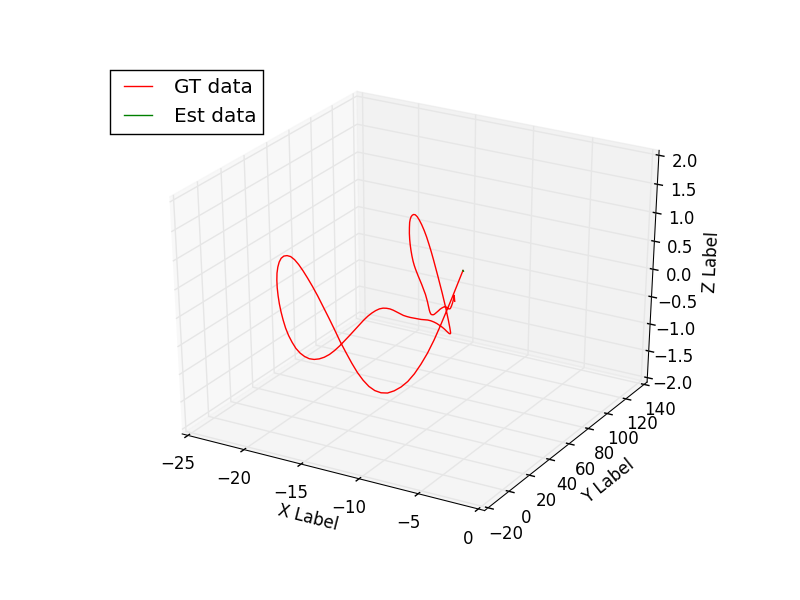
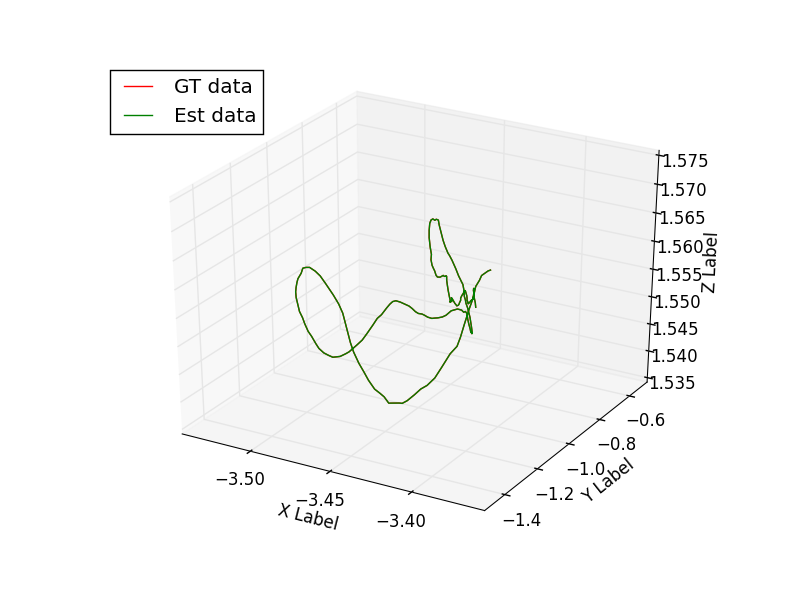
Parametric conf

diff --git a/test4.py b/test4.py
@@ -39,59 +39,49 @@ fig_name3d= prediction_name + "_" + str(step) + "3d.png"
 fig_namexyz= prediction_name + "_" + str(step) + "xyz.png"
 
 
+#orijinal locations of camera
+partitions=dataset_loader.load_splits(params)
+(X_test_gt, y_test_gt)=partitions[2]
+(data_x, data_y)=partitions[3]
+
+#location differences with orijinal, step_size=1 setted this means only looking consequtive locations
+X_test,y_delta_test,overlaps_test=dataset_loader.prepare_data(1,X_test_gt,y_test_gt)
+
+
 #location differences data augmented with stplits
-datasets_aug= dataset_loader.load_tum_dataV2(params)
-(X_train_aug, y_train_aug,overlaps_train_aug)=datasets_aug[0]
-(X_val_aug, y_val_aug,overlaps_val_aug)=datasets_aug[1]
-(X_test_aug, y_test_aug,overlaps_test_aug)=datasets_aug[2]
+X_test_aug, y_delta_test_aug, overlaps_test_aug=dataset_loader.prepare_data(step,X_test_gt,y_test_gt)
 
 #location prediction over augmented data
-y_pred=predict_location.predict(X_test_aug,params)
+y_delta_pred=predict_location.predict(X_test_aug, params)
 n_test_batches = len(X_test_aug)
 n_test_batches /= params['batch_size']
 
 
 
-#Pring and plot error with different axes
-pred_y_test_aug=y_test_aug[0:n_test_batches*params['batch_size']]
-err=y_pred - pred_y_test_aug
+#Print and plot error with different axes
+pred_y_delta_test_aug= y_delta_test_aug[0:n_test_batches * params['batch_size']]
+err= y_delta_pred - pred_y_delta_test_aug
 plot_data.plot_err(err,fig_namexyz)
 mean_error=numpy.mean(numpy.abs(err))
 print "Mean Error:"+str(mean_error)
-print "Mean of gt values:"+str(numpy.mean(pred_y_test_aug))
-print "Mean of pred values:"+str(numpy.mean(y_pred))
-
-
-#location differences with orijinal, step_size=1 setted this means only looking consequtive locations
-datasets= dataset_loader.load_tum_dataV2(params)
-(X_train, y_train,overlaps_train)=datasets[0]
-(X_val, y_val,overlaps_val)=datasets[1]
-(X_test, y_test,overlaps_test)=datasets[2]
-
-
-#orijinal locations of camera
-partitions=dataset_loader.load_splits(params)
-(X_train_gt, y_train_gt)=partitions[0]
-(X_val_gt, y_val_gt)=partitions[1]
-(X_test_gt, y_test_gt)=partitions[2]
-(data_x, data_y)=partitions[3]
-
+print "Mean of gt values:"+str(numpy.mean(pred_y_delta_test_aug))
+print "Mean of pred values:"+str(numpy.mean(y_delta_pred))
 
 #camera location restored from augmented data
-yy_test_aug=utils.up_sample(overlaps_test_aug,y_test_aug,step)
+yy_test_aug=utils.up_sample(overlaps_test_aug, y_delta_test_aug, step)
 yy_test_aug=numpy.vstack([y_test_gt[0,:],yy_test_aug])
 yy_test_aug=numpy.cumsum(yy_test_aug,axis=0)
 
 
 #camera location restored from predicted data
 pred_overlaps_test_aug=overlaps_test_aug[0:n_test_batches*params['batch_size']]
-yy_pred=utils.up_sample(pred_overlaps_test_aug,y_pred,step)
+yy_pred=utils.up_sample(pred_overlaps_test_aug, y_delta_pred, step)
 yy_pred=numpy.vstack([y_test_gt[0,:],yy_pred])
 yy_pred=numpy.cumsum(yy_pred,axis=0)
 
 
 #camera location restored from differences data
-yy_test=numpy.vstack([y_test_gt[0,:],y_test])
+yy_test=numpy.vstack([y_test_gt[0,:], y_delta_test])
 yy_test=numpy.cumsum(yy_test,axis=0)
 
 #save generated data
@@ -103,7 +93,7 @@ model_saver.save_pred(ext_yy_test_aug,yy_test_aug)
 model_saver.save_pred(ext_y_test_gt,y_test_gt)
 
 
-plot_data.plot_y([yy_test,yy_pred], fig_name3d)
+plot_data.plot_y([y_test_gt,yy_test], fig_name3d)
 
 
 print("ok")

diff --git a/dataset_loader.py b/dataset_loader.py
@@ -98,9 +98,9 @@ def prepare_data(step_size,data_x,data_y):
     _data_y=[]
     overlaps = [[] for i in range(len(data_x)-1)]
     for i in range(len(data_x)):
-        fImage1=data_x[i][0]
         new_i=(i+step_size)
         if(new_i<len(data_x)):
+            fImage1=data_x[i][0]
             fImage2=data_x[new_i][0]
             _data_x.append([fImage2,fImage1])
             _data_y.append(data_y[new_i,:]-data_y[i,:])
@@ -141,7 +141,7 @@ def split_data(test_size,val_size,data_x,data_y):
         rval = [(X_train, y_train), (X_val, y_val), (X_test, y_test)]
         return rval
 
-def  train_test_split(X, y, test_size, random_state):
+def train_test_split(X, y, test_size, random_state):
         indices=numpy.arange(len(X))
         prng = RandomState(random_state)
         prng.shuffle(indices)

diff --git a/utils.py b/utils.py
@@ -72,7 +72,7 @@ def rescale_weights(params, incoming_max):
 def up_sample(overlaps,data_y,step_size):
     data_yy=[]
     for index in range(len(overlaps)):
-        value= sum(data_y[overlaps[index]]) / (step_size * len(overlaps[index]))
+        value= sum(numpy.asarray(data_y)[overlaps[index]]) / (step_size * len(overlaps[index]))
         data_yy.append(value)
     return numpy.asarray(data_yy)
 
